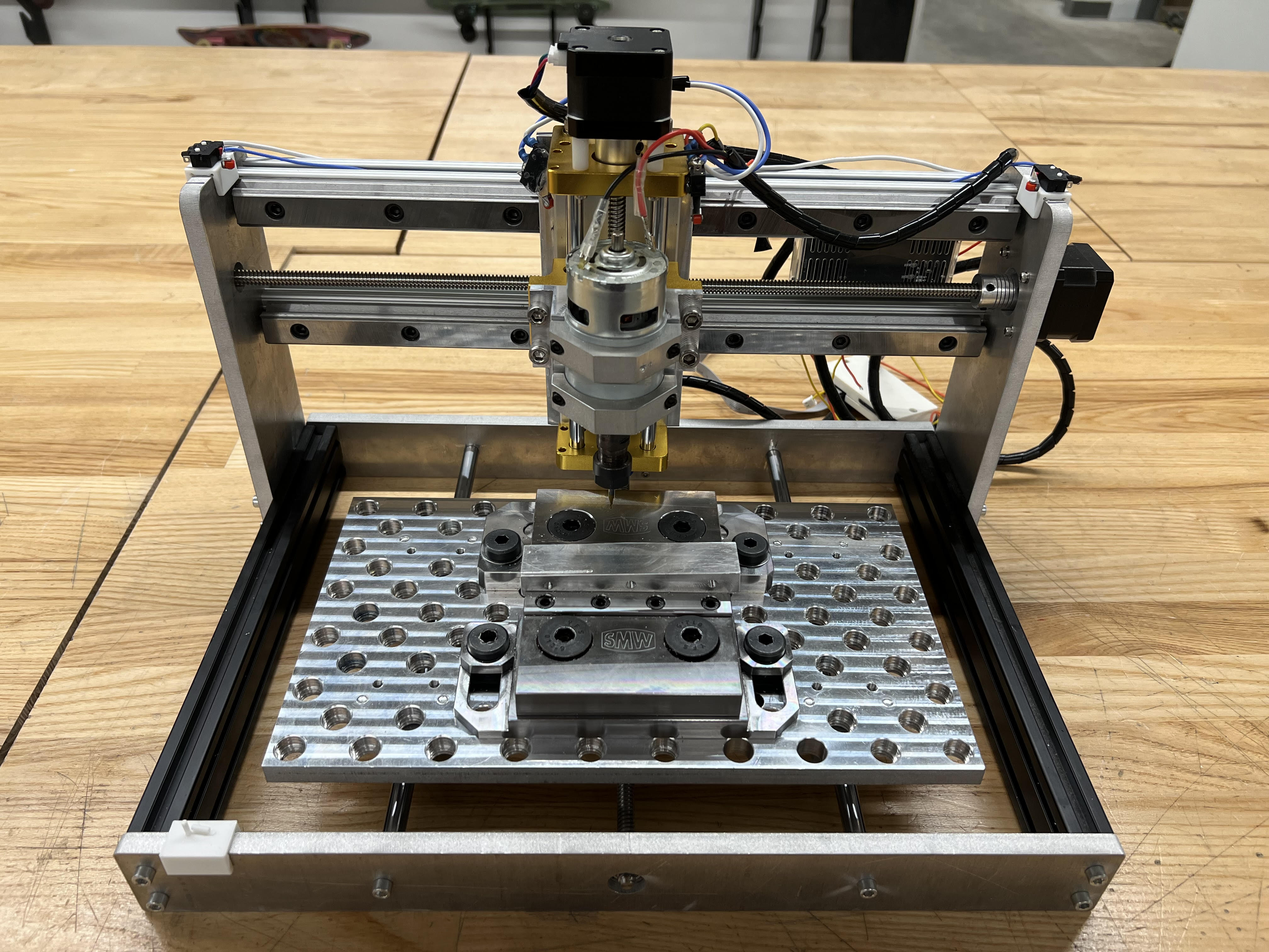
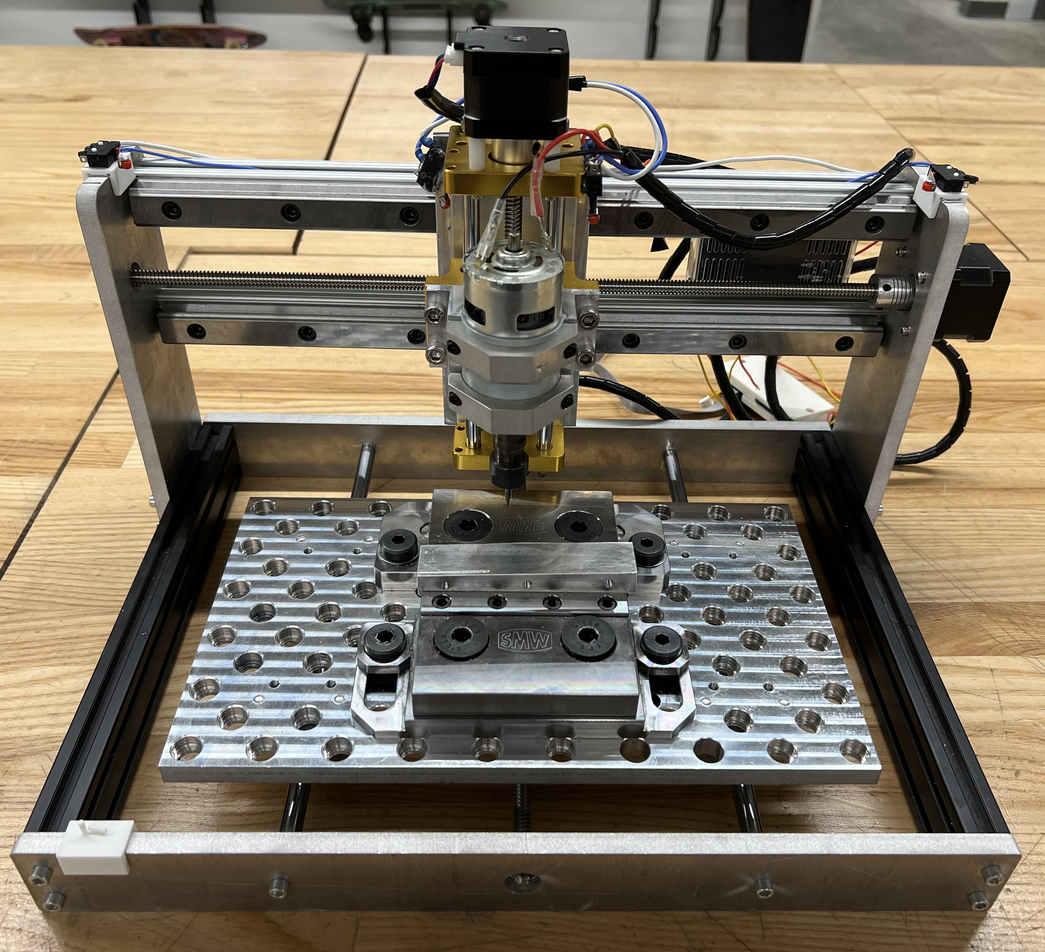
add to archive

diff --git a/index.html b/index.html
@@ -42,8 +42,8 @@
           <h1>Nathan Chun</h1>
           <p>
             Incoming PhD student at the <a href="https://usclaser.github.io/", class = "text-links", target= "blank">Laboratory for Autonomous
-            Systems in Exploration and Robotics</a> (LASER) advised by Dr. <a href = "https://albee.github.io/", class = "text-links", target="blank">Keenan Albee</a>
-            interested in co-design and manipulation.
+            Systems in Exploration and Robotics</a> (LASER) advised by Dr. <a href = "https://albee.github.io/", class = "text-links", target="blank">Keenan Albee</a>.
+            Currently interested in adaptive, hybrid control and manipulation for free-flyers.
             <br><br>
             <!-- <a href="javascript:toggle_bio()">Formal Bio</a>&nbsp;&nbsp;&nbsp;&nbsp; -->
             <a href="https://linkedin.com/in/nathanchun" class="hero__link" target="_blank" title="LinkedIn"><i class="fab fa-linkedin"></i></a>&nbsp;&nbsp;&nbsp;&nbsp;
@@ -110,17 +110,12 @@
                 <!-- <a href="">Google AI Blog</a> -->
             </p>
           </div>
-        </div>
-
-        <!-- </div> -->
-
-        <!-- All Publications (Click to Show) -->
-        
+        </div>        
 
         <!-- Toggle publications button. -->
-        <div class="list-item publication toggle-button" data-category="publication">
+        <!-- <div class="list-item publication toggle-button" data-category="publication">
           <a id="toggle_publications_button" href="javascript:toggle_publications()">Show more publications</a>
-        </div>
+        </div> -->
 
 
 
@@ -133,7 +128,7 @@
         <!-- Archive -->
 
         <div class="list-item archive" data-category="archive">
-          <a href="" class="thumbnail">
+          <a href="images/senior_design.pdf" class="thumbnail" target="_blank">
             <!-- <video playsinline="" muted="" autoplay="" loop="" width="180px">
               <source src="" type="video/mp4">
             </video> -->
@@ -141,9 +136,14 @@
           </a>
           <div class="project-description">
             <h3>Hardware and Control Optimization for Cable-Driven Robots</h3>
-            <p class="date">2024</p> 
+            <p class="date">2025</p> 
             <p>
               <br>Senior design project aiming to extend the operational life of cable-driven systems. <br><br>
+              <span style="color: #4B0394;">*Bleeker Award for Superb Craftsmanship*</span><br><br>
+
+            </p>
+            <p>
+              <b>Tech Stack</b>: Embedded Systems, 3D Printing, CNC Mill, Lathe, RL<br><br>
               <a href="images/senior_design.pdf" target="_blank">Poster</a>
             </p>
           </div>
@@ -157,15 +157,71 @@
           </a>
           <div class="project-description">
             <h3>LQR for Cart-Pole Pendulum</h3>
-            <p class="date">2024</p> 
+            <p class="date">2025</p> 
             <p>
               <br>Personal project to simulate, design, and control a cart-pole system with classical LQR control. <br><br>
               <!-- <a href="">Project Page</a> -->
             </p>
+            <p>
+              <b>Tech Stack</b>: Optimal Control, Embedded Systems, MATLAB, 3D Printing, CNC Mill, Lathe
+            </p>
           </div>
         </div>
-
-  
+        <div class="list-item archive" data-category="archive">
+          <a href="" class="thumbnail">
+            <!-- <video playsinline="" muted="" autoplay="" loop="" width="180px">
+              <source src="" type="video/mp4">
+            </video> -->
+            <img src="images/cnc_router.jpg"/>
+          </a>
+          <div class="project-description">
+            <h3>Custom CNC router</h3>
+            <p class="date">2025</p> 
+            <p>
+              <br>Personal project to design, machine, and assemble a desktop router capable of machining Aluminum. <br><br>
+            </p>
+            <p>
+              <b>Tech Stack</b>: Waterjet, CNC Mill, Embedded Systems
+            </p>
+          </div>
+        </div>
+        <div class="list-item archive" data-category="archive">
+          <a href="" class="thumbnail">
+            <!-- <video playsinline="" muted="" autoplay="" loop="" width="180px">
+              <source src="" type="video/mp4">
+            </video> -->
+            <img src="images/hector_control_board.jpg"/>
+          </a>
+          <div class="project-description">
+            <h3>HECTOR Low-level Control Board</h3>
+            <p class="date">2024</p> 
+            <p>
+              <br>Design and assembly of control board for DRCL/Laser Robotics' HECTOR humanoid. 
+              Responsible for communication between on-board computer, motors, and sensors. <br><br>
+            </p>
+            <p>
+              <b>Tech Stack</b>: PCB Design
+            </p>
+          </div>
+        </div>
+        <div class="list-item archive" data-category="archive">
+          <a href="" class="thumbnail">
+            <!-- <video playsinline="" muted="" autoplay="" loop="" width="180px">
+              <source src="" type="video/mp4">
+            </video> -->
+            <img src="images/wheelchair full.jpg"/>
+          </a>
+          <div class="project-description">
+            <h3>Wheelchair Stabilizer</h3>
+            <p class="date">2023</p> 
+            <p>
+              <br>Modular, motorized wheel that actuates based on IMU and load cell feedback to stabilize wheelchairs and prevent injury. <br><br>
+            </p>
+            <p>
+              <b>Tech Stack</b>: MATLAB, Embedded Systems
+            </p>
+          </div>
+        </div>
 
       </div>
 
